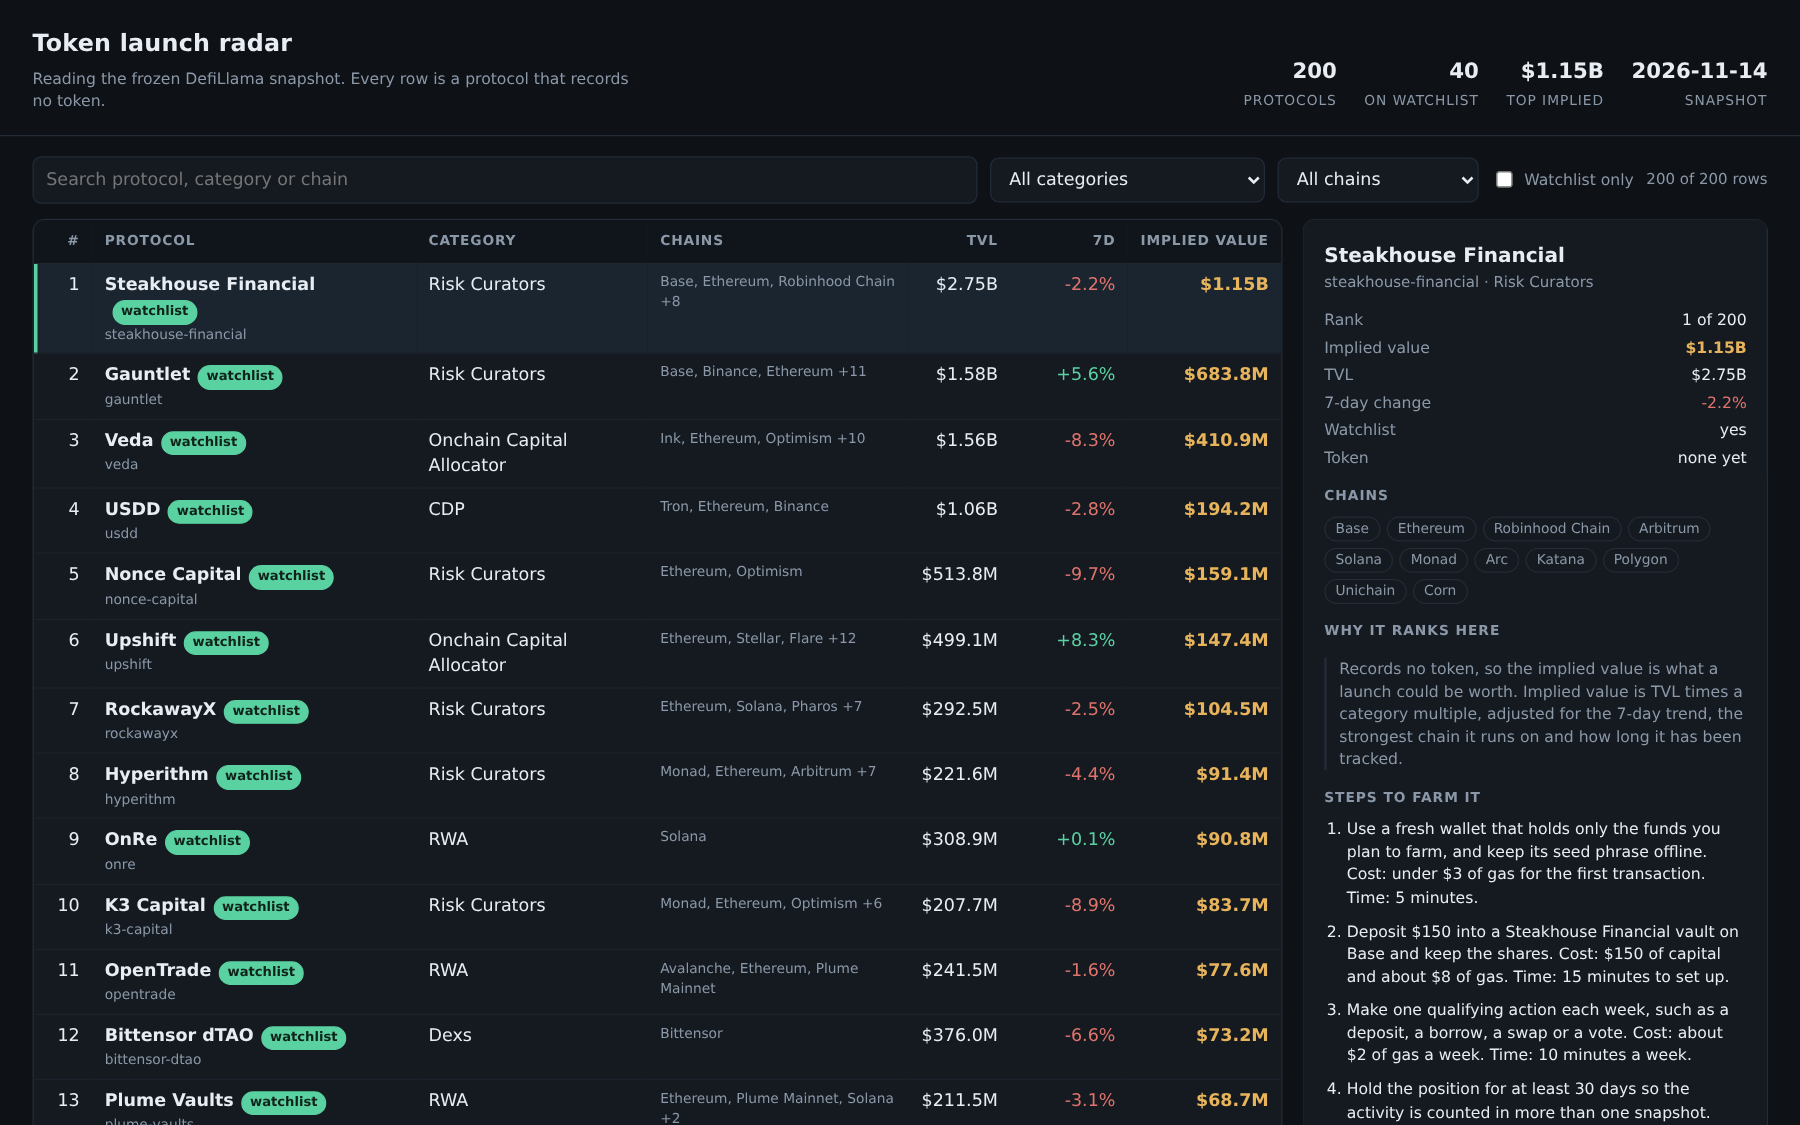
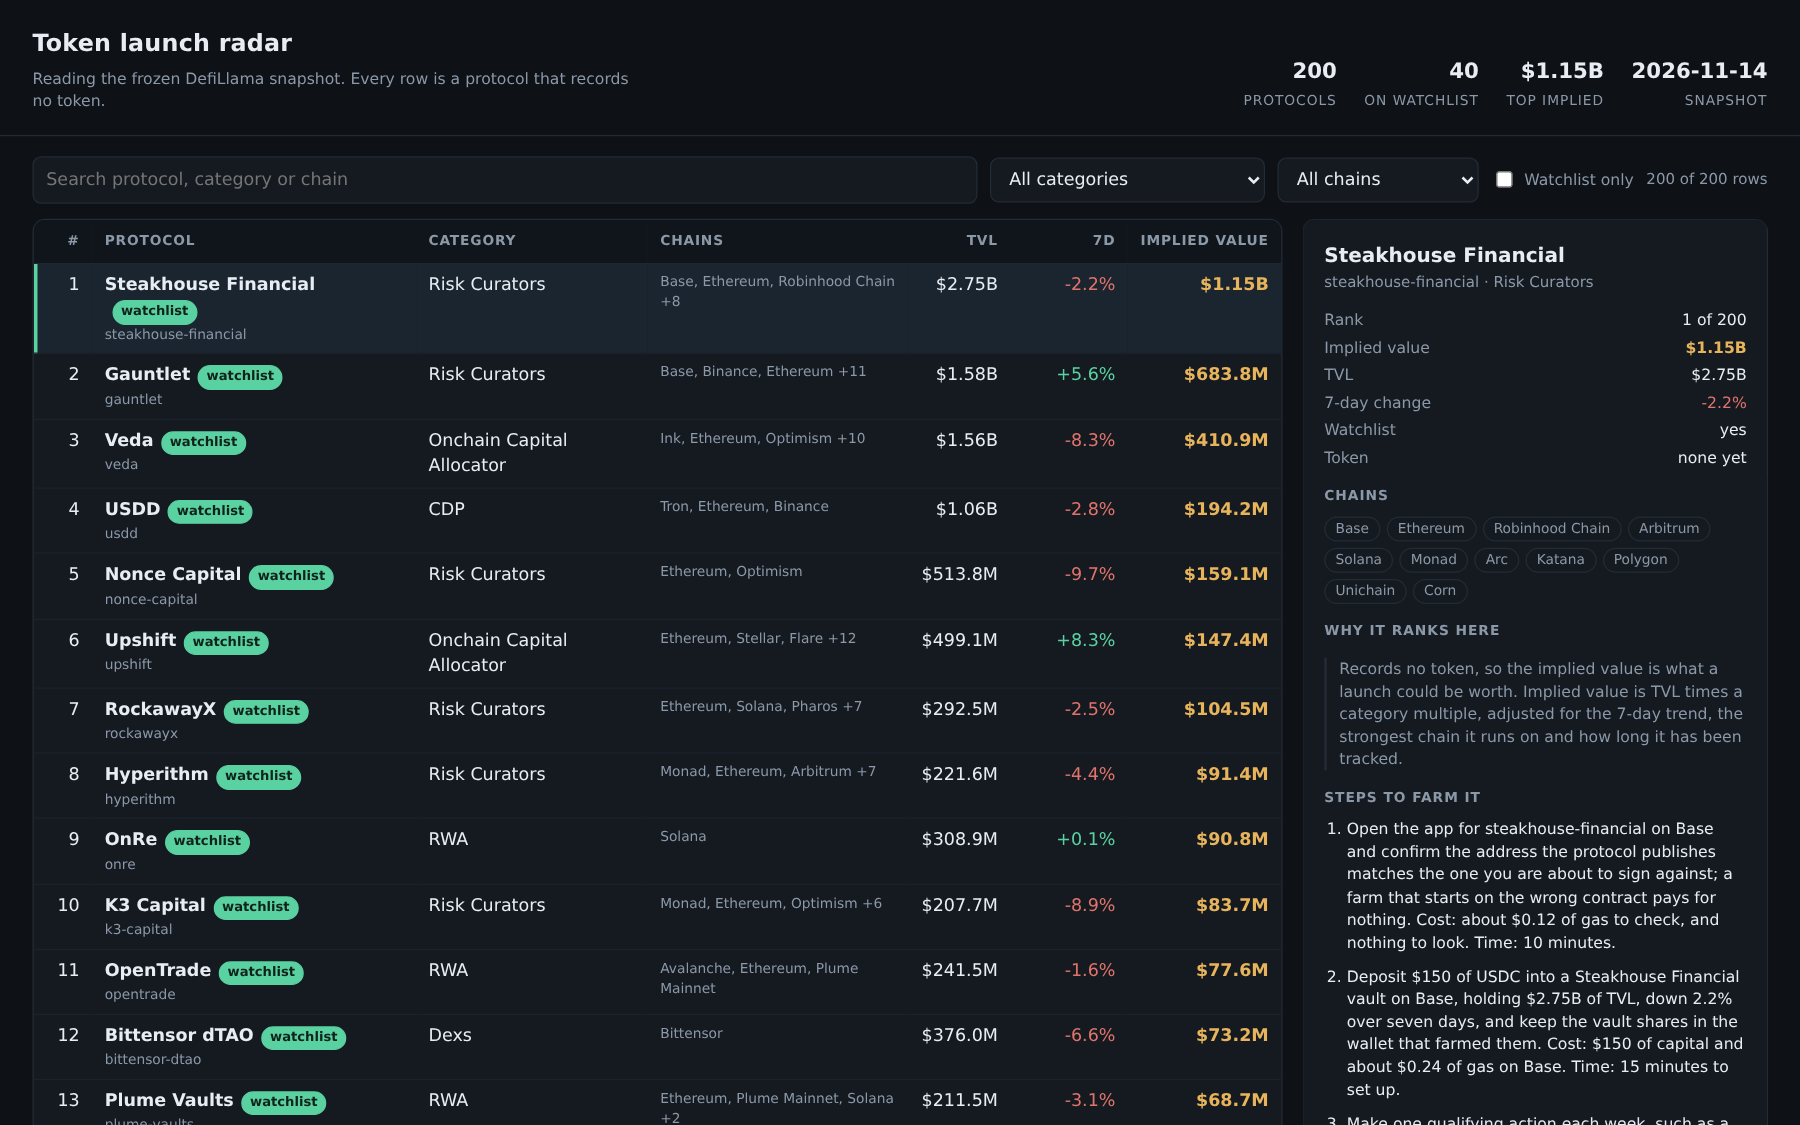
farm plans: per-chain gas, real size and trend, contract check by slug

Changed region(s): [[0.7467, 0.7156, 0.9644, 1.0]]

diff --git a/lib/model.ts b/lib/model.ts
@@ -64,7 +64,7 @@ export const MODEL: ModelConstants = {
 };
 
 /** The model's version label: the dashboard names it and the rules quote it. */
-export const MODEL_VERSION = 'radar-3';
+export const MODEL_VERSION = 'radar-4';
 
 /**
  * A token's fully diluted value is not a flat multiple of TVL: a curator earning a fee on assets it
@@ -379,6 +379,38 @@ function holdDaysFor(age: number | null): number {
   return 30;
 }
 
+/** What one transaction costs on each chain, at ordinary congestion. Estimates, not quotes. */
+export const CHAIN_GAS: Record<string, number> = {
+  Ethereum: 8,
+  Arbitrum: 0.15,
+  Base: 0.12,
+  Optimism: 0.12,
+  'OP Mainnet': 0.12,
+  Polygon: 0.05,
+  BNB: 0.18,
+  Solana: 0.01,
+  Tron: 0.6,
+  Avalanche: 0.20,
+  Sonic: 0.02,
+  Berachain: 0.05,
+  Monad: 0.02,
+  Ink: 0.03,
+  Unichain: 0.03,
+};
+
+/** Gas for one transaction on the chain the plan runs on, when the chain is not in the table. */
+export function gasFor(chain: string): number {
+  return CHAIN_GAS[chain] ?? 1;
+}
+
+/** The protocol's own size and trend, in the words the action can carry. */
+function shapeOf(p: SnapshotProtocol): string {
+  const size = p.tvl_usd >= 1e9 ? `$${(p.tvl_usd / 1e9).toFixed(2)}B` : `$${Math.round(p.tvl_usd / 1e6)}M`;
+  if (p.change_7d === null) return `holding ${size} of TVL`;
+  const dir = p.change_7d >= 0 ? 'up' : 'down';
+  return `holding ${size} of TVL, ${dir} ${Math.abs(p.change_7d).toFixed(1)}% over seven days`;
+}
+
 /** The category's one action, in the words a farmer can follow. */
 function actionFor(p: SnapshotProtocol, capital: number, chain: string): string {
   const c = (p.category ?? '').toLowerCase();
@@ -389,9 +421,9 @@ function actionFor(p: SnapshotProtocol, capital: number, chain: string): string 
   if (c.includes('staking') || c.includes('restak')) return `Stake $${capital} of the chain's staking asset through ${name} and keep the receipt.`;
   if (c.includes('perpetual') || c.includes('derivative')) return `Deposit $${capital} of USDC as margin on ${name} and open one small hedge.`;
   if (c.includes('prediction')) return `Fund $${capital} and place one market position on ${name}.`;
-  if (c.includes('curator') || c.includes('allocator')) return `Deposit $${capital} into a ${name} vault on ${chain} and keep the shares.`;
+  if (c.includes('curator') || c.includes('allocator')) return `Deposit $${capital} of USDC into a ${name} vault on ${chain}, ${shapeOf(p)}, and keep the vault shares in the wallet that farmed them.`;
   if (c.includes('stable')) return `Mint or deposit $${capital} of the stable asset through ${name} on ${chain}.`;
-  if (c.includes('rwa')) return `Mint $${capital} of the protocol's yield asset on ${chain} and hold it.`;
+  if (c.includes('rwa')) return `Mint or buy $${capital} of ${name}'s yield asset on ${chain}, ${shapeOf(p)}, and check who holds the underlying before you do.`;
   if (c.includes('insurance')) return `Buy $${capital} of cover from ${name} on ${chain} and keep the policy.`;
   return `Deposit $${capital} of USDC into ${name} on ${chain} and keep the position open.`;
 }
@@ -407,18 +439,18 @@ export function farmSteps(p: SnapshotProtocol, age: number | null): FarmStep[] {
   const action = actionFor(p, capital, chain);
   return [
     {
-      text: `Use a fresh wallet that holds only the funds you plan to farm, and keep its seed phrase offline.`,
-      cost: 'under $3 of gas for the first transaction',
-      time: '5 minutes',
+      text: `Open the app for ${p.slug} on ${chain} and confirm the address the protocol publishes matches the one you are about to sign against; a farm that starts on the wrong contract pays for nothing.`,
+      cost: `about $${gasFor(chain).toFixed(2)} of gas to check, and nothing to look`,
+      time: '10 minutes',
     },
     {
       text: action,
-      cost: `$${capital} of capital and about $${capital >= 150 ? 8 : 4} of gas`,
+      cost: `$${capital} of capital and about $${(gasFor(chain) * 2).toFixed(2)} of gas on ${chain}`,
       time: '15 minutes to set up',
     },
     {
-      text: `Make one qualifying action each week, such as a deposit, a borrow, a swap or a vote.`,
-      cost: 'about $2 of gas a week',
+      text: `Make one qualifying action each week, such as a deposit, a borrow, a swap or a vote, and vary it: a snapshot that counts distinct actions rewards a real position over a repeated one.`,
+      cost: `about $${(gasFor(chain) * 3).toFixed(2)} of gas a week on ${chain}`,
       time: '10 minutes a week',
     },
     {
